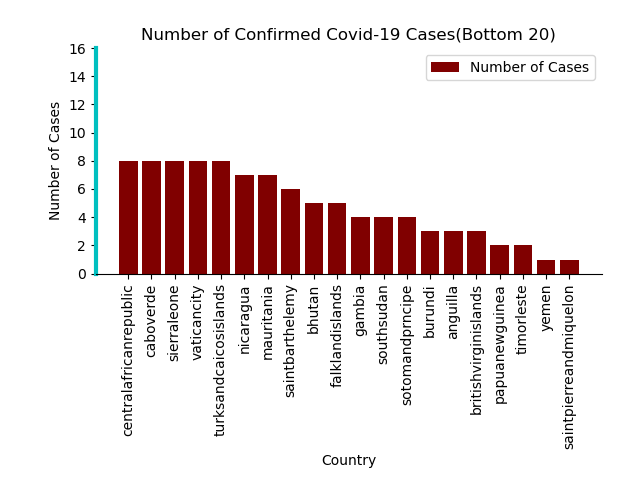
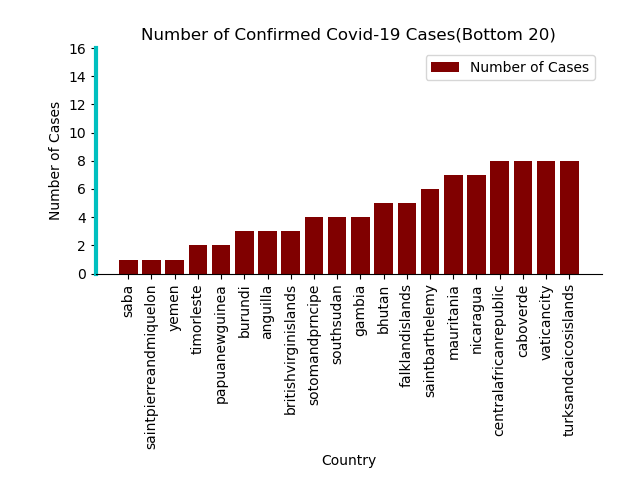
Summery Proportion

Changed region(s): [[0.1875, 0.3125, 0.9062, 0.5625], [0.1875, 0.5938, 0.5312, 0.9375], [0.5938, 0.5938, 0.9062, 0.9375]]

diff --git a/Analysis Code/Cases Summary Bottom 20.py b/Analysis Code/Cases Summary Bottom 20.py
@@ -9,36 +9,26 @@ style.use('seaborn-deep')
 fig = plt.figure()
 ax1 = plt.subplot2grid((1,1), (0,0))
 dataFromCsv = pd.read_csv('../Analysis Data/internationalCovid19Status.csv')
-print(dataFromCsv)
-# print(dataFromCsv['totalConfirmed'])
-treatmentCase = dataFromCsv['totalConfirmed'][-20:] - (dataFromCsv['totalDeaths'][-20:] + dataFromCsv['totalRecovered'][-20:])
+result = dataFromCsv.sort_values(['totalConfirmed'], ascending= True)
+
+treatmentCase = result['totalConfirmed'][0:20] - (result['totalDeaths'][0:20] + result['totalRecovered'][0:20])
 print(treatmentCase)
 
-ax1.barh(dataFromCsv['id'][-20:],dataFromCsv['totalDeaths'][-20:], label='Number of Death Cases', color='#8B0000', left = treatmentCase+ dataFromCsv['totalRecovered'][-20:])
-ax1.barh(dataFromCsv['id'][-20:],dataFromCsv['totalRecovered'][-20:],left = treatmentCase, label='Number of Recovered Cases', color='#1E90FF')
-ax1.barh(dataFromCsv['id'][-20:],treatmentCase[-20:], label='Number of Corona Cases', color='#CD5C5C')
-
-##ax1.bar(dataFromCsv['id'][0:20],treatmentCase[0:20], label='Number of Corona Cases', color='#800000')
-##ax1.bar(dataFromCsv['id'][0:20],dataFromCsv['totalRecovered'][0:20],bottom = treatmentCase[0:20], label='Number of Recovered Cases', color='c')
-##ax1.bar(dataFromCsv['id'][0:20],dataFromCsv['totalDeaths'][0:20], label='Number of Death Cases', color='b')
-
-
-# ax1.plot(data_file['Date'],data_file['Number of Cases'])
-# # ax1.xaxis.set_major_formatter(mdates.DateFormatter('%Y/%m/%d'))
-# # ax1.xaxis.set_major_locator(mticker.MaxNLocator(10))
-for label in ax1.xaxis.get_ticklabels(): # loop to change the x axis label rotation
-    label.set_rotation(90)
-# ax1.grid(True)#, color='g', linest
-##ax1.spines['left'].set_color('c')#Making graph Left line color cyan
+ax1.barh(result['id'][0:20],result['totalDeaths'][0:20], label='Number of Death Cases', color='#8B0000', left = treatmentCase+ result['totalRecovered'][0:20])
+ax1.barh(result['id'][0:20],result['totalRecovered'][0:20],left = treatmentCase, label='Number of Recovered Cases', color='#1E90FF')
+ax1.barh(result['id'][0:20],treatmentCase[0:20], label='Number of Corona Cases', color='#CD5C5C')
+ax1.set_xticks([0,2,4,6,8,10,12,14,16])
 ax1.spines['right'].set_visible(False)# No right line
 ax1.spines['top'].set_visible(False)# No top line
-ax1.spines['left'].set_linewidth(2) # Left line thick
-
+ax1.spines['left'].set_linewidth(3) # Left line thick
 
 plt.xlabel('Country')
 plt.ylabel('Number of Cases')
-plt.title("Cases Summary of Covid-19")
+plt.title("Cases Summary of Covid-19(Bottom 20)")
 plt.legend()
-plt.subplots_adjust(left=0.15, bottom=0.30, right=0.94, top=0.90, wspace=0.2, hspace=0)
+plt.subplots_adjust(left=0.35, bottom=0.15, right=0.94, top=0.90, wspace=0.4, hspace=0)
 plt.show()
+##fig.savefig('caseSummaryBottom20.png') # Saving the Graph in figure color
+
+
 

diff --git a/Analysis Code/Cases Summary Top 20.py b/Analysis Code/Cases Summary Top 20.py
@@ -9,36 +9,22 @@ style.use('seaborn-deep')
 fig = plt.figure()
 ax1 = plt.subplot2grid((1,1), (0,0))
 dataFromCsv = pd.read_csv('../Analysis Data/internationalCovid19Status.csv')
-print(dataFromCsv)
-# print(dataFromCsv['totalConfirmed'])
-treatmentCase = dataFromCsv['totalConfirmed'][0:20] - (dataFromCsv['totalDeaths'][0:20] + dataFromCsv['totalRecovered'][0:20])
+result = dataFromCsv.sort_values(['totalConfirmed'], ascending= True)
+
+treatmentCase = result['totalConfirmed'][-20:] - (result['totalDeaths'][-20:] + result['totalRecovered'][-20:])
 print(treatmentCase)
 
-ax1.barh(dataFromCsv['id'][0:20],dataFromCsv['totalDeaths'][0:20], label='Number of Death Cases', color='#8B0000', left = treatmentCase+ dataFromCsv['totalRecovered'][0:20])
-ax1.barh(dataFromCsv['id'][0:20],dataFromCsv['totalRecovered'][0:20],left = treatmentCase, label='Number of Recovered Cases', color='#1E90FF')
-ax1.barh(dataFromCsv['id'][0:20],treatmentCase[0:20], label='Number of Corona Cases', color='#CD5C5C')
+ax1.barh(result['id'][-20:],result['totalDeaths'][-20:], label='Number of Death Cases', color='#8B0000', left = treatmentCase+ result['totalRecovered'][-20:])
+ax1.barh(result['id'][-20:],result['totalRecovered'][-20:],left = treatmentCase, label='Number of Recovered Cases', color='#1E90FF')
+ax1.barh(result['id'][-20:],treatmentCase[-20:], label='Number of Corona Cases', color='#CD5C5C')
 
-##ax1.bar(dataFromCsv['id'][0:20],treatmentCase[0:20], label='Number of Corona Cases', color='#800000')
-##ax1.bar(dataFromCsv['id'][0:20],dataFromCsv['totalRecovered'][0:20],bottom = treatmentCase[0:20], label='Number of Recovered Cases', color='c')
-##ax1.bar(dataFromCsv['id'][0:20],dataFromCsv['totalDeaths'][0:20], label='Number of Death Cases', color='b')
-
-
-# ax1.plot(data_file['Date'],data_file['Number of Cases'])
-# # ax1.xaxis.set_major_formatter(mdates.DateFormatter('%Y/%m/%d'))
-# # ax1.xaxis.set_major_locator(mticker.MaxNLocator(10))
-for label in ax1.xaxis.get_ticklabels(): # loop to change the x axis label rotation
-    label.set_rotation(90)
-# ax1.grid(True)#, color='g', linest
-ax1.spines['left'].set_color('c')#Making graph Left line color cyan
 ax1.spines['right'].set_visible(False)# No right line
 ax1.spines['top'].set_visible(False)# No top line
-ax1.spines['left'].set_linewidth(3) # Left line thick
-
+ax1.spines['left'].set_linewidth(2) # Left line thick
 
 plt.xlabel('Country')
 plt.ylabel('Number of Cases')
-plt.title("Cases Summary of Covid-19")
+plt.title("Cases Summary of Covid-19(Top 20)")
 plt.legend()
-plt.subplots_adjust(left=0.15, bottom=0.30, right=0.94, top=0.90, wspace=0.2, hspace=0)
+plt.subplots_adjust(left=0.20, bottom=0.20, right=0.94, top=0.90, wspace=0.6, hspace=0)
 plt.show()
-

diff --git a/Analysis Code/Number of Comfirmed Cases Top 20.py b/Analysis Code/Number of Comfirmed Cases Top 20.py
@@ -9,22 +9,18 @@ print(plt.style.available)
 fig = plt.figure()
 ax1 = plt.subplot2grid((1,1), (0,0))
 dataFromCsv = pd.read_csv('../Analysis Data/internationalCovid19Status.csv')
-# print(dataFromCsv['id'])
-# print(dataFromCsv['totalConfirmed'])
+result = dataFromCsv.sort_values(['totalConfirmed'], ascending= True)
 
-ax1.bar(dataFromCsv['id'][0:20],dataFromCsv['totalConfirmed'][0:20], label='Number of Cases', color='#800000')
+ax1.bar(result['id'][-20:],result['totalConfirmed'][-20:], label='Number of Cases', color='#800000')
 
-# ax1.plot(data_file['Date'],data_file['Number of Cases'])
-# # ax1.xaxis.set_major_formatter(mdates.DateFormatter('%Y/%m/%d'))
-# # ax1.xaxis.set_major_locator(mticker.MaxNLocator(10))
 for label in ax1.xaxis.get_ticklabels(): # loop to change the x axis label rotation
     label.set_rotation(90)
-# ax1.grid(True)#, color='g', linest
+
+
 ax1.spines['left'].set_color('c')#Making graph Left line color cyan
 ax1.spines['right'].set_visible(False)# No right line
 ax1.spines['top'].set_visible(False)# No top line
 ax1.spines['left'].set_linewidth(3) # Left line thick
-
 
 plt.xlabel('Country')
 plt.ylabel('Number of Cases')
@@ -32,4 +28,3 @@ plt.title("Number of Confirmed Covid-19 Cases(Top 20)")
 plt.legend()
 plt.subplots_adjust(left=0.15, bottom=0.30, right=0.94, top=0.90, wspace=0.2, hspace=0)
 plt.show()
-

diff --git a/Analysis Code/Number of Comfirmed Cases Bottom 20.py b/Analysis Code/Number of Comfirmed Cases Bottom 20.py
@@ -9,23 +9,18 @@ print(plt.style.available)
 fig = plt.figure()
 ax1 = plt.subplot2grid((1,1), (0,0))
 dataFromCsv = pd.read_csv('../Analysis Data/internationalCovid19Status.csv')
-# print(dataFromCsv['id'])
-# print(dataFromCsv['totalConfirmed'])
+result = dataFromCsv.sort_values(['totalConfirmed'], ascending= True)
 
-ax1.bar(dataFromCsv['id'][-20:],dataFromCsv['totalConfirmed'][-20:], label='Number of Cases', color='#800000')
+ax1.bar(result['id'][0:20],result['totalConfirmed'][0:20], label='Number of Cases', color='#800000')
 
-# ax1.plot(data_file['Date'],data_file['Number of Cases'])
-# # ax1.xaxis.set_major_formatter(mdates.DateFormatter('%Y/%m/%d'))
-# # ax1.xaxis.set_major_locator(mticker.MaxNLocator(10))
 for label in ax1.xaxis.get_ticklabels(): # loop to change the x axis label rotation
     label.set_rotation(90)
-# ax1.grid(True)#, color='g', linest
+
 ax1.set_yticks([0,2,4,6,8,10,12,14,16])
 ax1.spines['left'].set_color('c')#Making graph Left line color cyan
 ax1.spines['right'].set_visible(False)# No right line
 ax1.spines['top'].set_visible(False)# No top line
 ax1.spines['left'].set_linewidth(3) # Left line thick
-
 
 plt.xlabel('Country')
 plt.ylabel('Number of Cases')

diff --git a/Analysis Code/Cases Summary Proportion.py b/Analysis Code/Cases Summary Proportion.py
@@ -1,0 +1,30 @@
+import pandas as pd
+import numpy as np
+import matplotlib.pyplot as plt
+import matplotlib.ticker as mticker
+import matplotlib.dates as mdates
+from matplotlib import style
+print(plt.style.available)
+# style.use('fivethirtyeight')
+fig = plt.figure()
+ax1 = plt.subplot2grid((1,1), (0,0))
+dataFromCsv = pd.read_csv('../Analysis Data/internationalCovid19Status.csv')
+print(dataFromCsv.columns)
+
+totalDeath = dataFromCsv['totalDeaths'].sum()
+totalRecovered = dataFromCsv['totalRecovered'].sum()
+totalUnderTreatment = dataFromCsv['totalConfirmed'].sum() - (totalDeath + totalRecovered) 
+
+slices = [totalUnderTreatment,totalDeath,totalRecovered]
+activities = ['Total Under Treatment','Total Death','Total Recovered']
+cols = ['#CD5C5C','#8B0000','#1E90FF']
+ax1.pie(slices,
+        labels=activities,
+        colors=cols,
+        startangle=90, #Starting angle point
+        shadow= True,
+        explode=(0.1,0.1,.1), #Slice out (amount of explotion sleeping, ammount of eating,..)
+        autopct='%1.1f%%') # Adds the percentage
+
+plt.title('Case Summary Proportion')
+plt.show()
